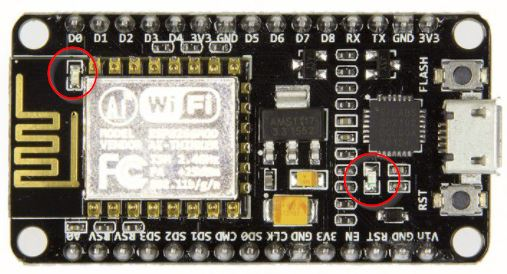
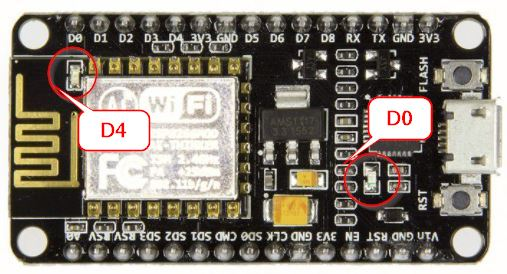
cambios31

Changed region(s): [[0.6805, 0.3212, 0.858, 0.6131], [0.0888, 0.292, 0.2959, 0.5839], [0.1479, 0.1752, 0.1775, 0.2044]]

diff --git a/capitulo-tres/ldr.md b/capitulo-tres/ldr.md
@@ -1,0 +1,19 @@
+# Visualizar la luz LDR
+
+Ahora añadimos otro control **Gauge**
+
+![](/assets/blynk14.png)
+
+>**danger**
+># #Nos estamos quedando sin energía
+> Como puedes ver tengo sólo 200 de energía, cada elemento de control tienen un coste de energía. Ya dijimos que esta APP versión gratuita tiene esta limitación que lo resolveremos en 4 AVANZADO
+
+Elegimos de PIN el analógico (sólo hay uno). [Recuerda](https://catedu.github.io/Rover-arduino/capitulo-dos/sensores.html) que el LDR está conectado al pin analógico.
+
+![](/assets/blynk15.png)
+
+Y como va al revés, vamos a poner el medidor al revés: de 1023 a 0
+
+![](/assets/blynk16.png)
+
+{% youtube %}https://www.youtube.com/watch?v=n6m_8mGBwXY{% endyoutube %}

diff --git a/capitulo-tres/encenderled3.md b/capitulo-tres/encenderled3.md
@@ -19,9 +19,12 @@ Nada más !! así de sencillo. Le damos a **subir** (teniendo el programa Arduin
 
 ![](/assets/arduinobloks6.jpg)
 
-Vamos a la APP de BLYNK, Pulsamos al botón de play ▶ de arriba arriba. Luego al botón, y podemos ver cómo se enciende y apaga el led D0
+Vamos a la APP de BLYNK, Pulsamos al botón de play ▶ de arriba arriba. Luego al botón:
 
 ![](/assets/blynk10.png)
 
+ Y podemos ver cómo se enciende y apaga el led D0
+
+![](/assets/led.jpg)
 
 ## Recuerda : Un proyecto en BLYNK = Un Token

diff --git a/capitulo-tres/encenderled.md b/capitulo-tres/encenderled.md
@@ -1,6 +1,6 @@
 # Primer programa con Blynk: Encender D0 : Conseguir el Token
 
-Si antes [hicimos un intermitente por D4](https://catedu.github.io/Rover-arduino/capitulo-dos/intermitente.html), ahora vamos a encender el LED en D0 :
+Si antes [hicimos un intermitente por D4](https://catedu.github.io/Rover-arduino/capitulo-dos/intermitente.html), ahora vamos a encender el LED en D0:
 
 ![](/assets/led.jpg)
 

diff --git a/capitulo-tres/encenderled2.md b/capitulo-tres/encenderled2.md
@@ -21,7 +21,9 @@ Pulsamos en PIN y le decimos que sea el D0
 ![](/assets/blynk12.png)
 
 >**success**
-> ##ATENCIÓN
-> La nomenclatura de los pines cambia, el D0 es el GP16, viene de GPIO General Port Input Output
+> ## ATENCIÓN
+> La nomenclatura de los pines cambia, el D0 es el GP16, viene de GPIO General Port Input Output.
+>
+>El D4 es el gp2
 
 ![](/assets/esquemashield.jpg)

diff --git a/capitulo-dos/intermitente.md b/capitulo-dos/intermitente.md
@@ -4,7 +4,7 @@ Nuestro primer programa que vamos a hacer es un intermitente en D4
 
 >**tip**
 >¿Por qué con D4 y no con otro?
-> Porque D4 tiene un led integrado en la placa, también D0
+> Porque D4 tiene un led integrado en la placa,  también D0.
 
 ![](/assets/led.jpg)
 
